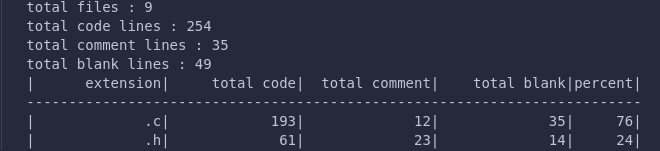
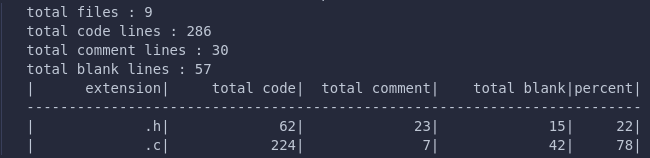
Update B2 (#5)
* Fix Issue #2 and improve readability

* Update B2_LOC_STATS.png

* Update Makefile

diff --git a/src/B2/B2_Algos.c b/src/B2/B2_Algos.c
@@ -1,14 +1,11 @@
 #include <B2_Algos.h>
-
+#define MIN(a, b) (a < b) ? a : b
 int __timestamp = 0;
 
 void B2_FCFS(Job jobQueue[], int len)
 {
     for (int i = 0; i < len; i++)
-    { // Edge case: cpu might remain idle
-        // when process 'a' ends at '10'
-        // but another process, 'b' doesnt start until '15'
-        // here, cpu will be idle from '10' to '15'
+    {
         if (__timestamp < jobQueue[i].arrivalTime)
         {
             processJob((Job){.id = 0});
@@ -21,97 +18,80 @@ void B2_FCFS(Job jobQueue[], int len)
     }
 }
 
-void B2_SRTN(Job jobQueue[], int len)
-{
-    while (1)
-    {
-        Job *job = getNextShortestJobInQueue(jobQueue, len, __timestamp);
-        if (!job)
-        { // All jobs are completed
-            break;
-        }
-
-        { // Job has arrived, process it
-            int gap = getNextBatchArrivalTime(jobQueue, len, __timestamp) - __timestamp;
-            gap = (gap < 0) || (gap > job->burstTime) ? job->burstTime : gap;
-            job->burstTime -= gap;
-            processJob(*job);
-            __timestamp += gap;
-        }
-        if (job->burstTime <= 0)
-        {
-            UpdateTableElementCT(job->id, __timestamp);
-        }
-    }
-}
-
+int completedCnt = 0;
 void B2_RR(Job jobQueue[], int len, int timeSlice)
 {
-    int i = 0, flag = 0;
-    while (flag || i < len)
-    { // If we have reached the end of the queue AND atleast 1 job is remaining,
-        // or if the job has not arrived yet, reset i to 0
-        // reset i to 0
-        if ((i >= len && flag) || jobQueue[i].arrivalTime > __timestamp)
-        {
-            i = 0;
-            flag = 0;
-        }
-
+    for (int i = 0; i < len; i++)
+    {
         if (jobQueue[i].burstTime <= 0)
-        { // If job is already completed, skip it
-            i++;
             continue;
+
+        if (__timestamp < jobQueue[i].arrivalTime) // process have not yet arrived
+        {
+            if (completedCnt == i) // all prior jobs have completed execution
+            {
+                processJob((Job){.id = 0});
+                __timestamp = jobQueue[i].arrivalTime;
+            }
+            else
+                break;
         }
 
-        { // Job has arrived, process it
-            int gap = (jobQueue[i].burstTime < timeSlice) ? jobQueue[i].burstTime : timeSlice;
-            jobQueue[i].burstTime -= gap;
-            processJob(jobQueue[i]);
-            __timestamp += gap;
-        }
+        int execTime = MIN(jobQueue[i].burstTime, timeSlice);
+
+        processJob(jobQueue[i]);
+        jobQueue[i].burstTime -= execTime;
+        __timestamp += execTime;
 
         if (jobQueue[i].burstTime <= 0)
         {
             UpdateTableElementCT(jobQueue[i].id, __timestamp);
+            completedCnt += 1;
         }
-        else
-        { // mark flag saying "atleast 1 job is remaining"
-            flag = 1;
-        }
-        i++;
     }
+
+    if (completedCnt < len)
+        B2_RR(jobQueue, len, timeSlice); // start next 'round' of execution
 }
 
 void B2_PRI(Job jobQueue[], int len)
 {
-    sortJobs(jobQueue, len, cmpPRI);
-
-    int i = 0, flag = 0;
-    while (flag || i < len)
+    Job *job = getNextHighPriorityJobInQueue(jobQueue, len, __timestamp);
+    if (job == NULL)
     {
-        if ((i >= len && flag))
-        {
-            i = 0;
-        }
-        if (jobQueue[i].arrivalTime > __timestamp)
-        { // Aleast one job exists that hasnt arrived yet, so set flag
-            flag = 1;
-            continue;
-        }
-        if (jobQueue[i].burstTime <= 0)
-        {
-            i++;
-            continue;
-        }
-
-        processJob(jobQueue[i]);
-        __timestamp += jobQueue[i].burstTime;
-        jobQueue[i].burstTime = 0;
-        UpdateTableElementCT(jobQueue[i].id, __timestamp);
-
-        i++;
+        return;
     }
+    processJob(*job);
+    __timestamp += job->burstTime;
+    job->burstTime = 0;
+
+    UpdateTableElementCT(job->id, __timestamp);
+    B2_PRI(jobQueue, len); // RECURSIVE Definition
+}
+
+void B2_SRTN(Job jobQueue[], int len)
+{
+    Job *job = getNextShortestJobInQueue(jobQueue, len, __timestamp);
+    if (job == NULL)
+    {
+        return;
+    }
+    int timeTillNextProcessArrives = getNextBatchArrivalTime(jobQueue, len, __timestamp) - __timestamp;
+    int execTime;
+    if (timeTillNextProcessArrives < 0)
+        execTime = job->burstTime;
+    else
+        execTime = MIN(job->burstTime, timeTillNextProcessArrives);
+
+    processJob(*job);
+    job->burstTime -= execTime;
+    __timestamp += execTime;
+
+    if (job->burstTime <= 0)
+    {
+        UpdateTableElementCT(job->id, __timestamp);
+    }
+    B2_SRTN(jobQueue, len); // RECURSIVE Definition
 }
 
 void printTimestamp()

diff --git a/src/B2/B2_JobQueue.c b/src/B2/B2_JobQueue.c
@@ -1,24 +1,55 @@
 #include <B2_Algos.h>
 
-int getNextBatchArrivalTime(Job jobQueue[], int rear, int timestamp)
+int getNextBatchArrivalTime(Job jobQueue[], int len, int timestamp)
 {
     int res;
-    for (res = 0; res < rear && jobQueue[res].arrivalTime <= timestamp; res++)
+    for (res = 0; res < len && jobQueue[res].arrivalTime <= timestamp; res++)
         ;
-    if (res >= rear)
+    if (res >= len)
         return -1;
 
     return jobQueue[res].arrivalTime;
 }
 
-Job *getNextShortestJobInQueue(Job jobQueue[], int rear, int timestamp)
+Job *getNextShortestJobInQueue(Job jobQueue[], int len, int timestamp)
 {
-    int shortest = 0;
-    for (int i = 0; i < rear && jobQueue[i].arrivalTime <= timestamp; i++)
+    int i, shortest = 0;
+    for (i = 0; i < len && jobQueue[i].arrivalTime <= timestamp; i++)
     {
-        if (jobQueue[i].burstTime > 0 && (jobQueue[shortest].burstTime <= 0 || cmpBT(jobQueue[i], jobQueue[shortest])))
+        if (jobQueue[i].burstTime > 0 && (
+                jobQueue[shortest].burstTime <= 0 || 
+                cmpBT(jobQueue[i], jobQueue[shortest])))
             shortest = i;
+    }
+    if (i < len && jobQueue[shortest].burstTime <= 0)
+    { // All arrived jobs have completed execution, but remaining jobs have not yet arrived
+        jobQueue[shortest].id = 0;
+        jobQueue[shortest].arrivalTime = timestamp;
+        jobQueue[shortest].burstTime = getNextBatchArrivalTime(jobQueue, len, timestamp) - timestamp;
+        return &jobQueue[shortest];
     }
 
     return (jobQueue[shortest].burstTime <= 0) ? NULL : &jobQueue[shortest];
+}
+
+Job *getNextHighPriorityJobInQueue(Job jobQueue[], int len, int timestamp)
+{
+    int i, hiPri = 0;
+    for (i = 0; i < len && jobQueue[i].arrivalTime <= timestamp; i++)
+    {
+        if (jobQueue[i].burstTime > 0 && (
+                jobQueue[hiPri].burstTime <= 0 || 
+                cmpPRI(jobQueue[i], jobQueue[hiPri])))
+            hiPri = i;
+    }
+
+    if (i < len && jobQueue[hiPri].burstTime <= 0)
+    { // All arrived jobs have completed execution, but remaining jobs have not yet arrived
+        jobQueue[hiPri].id = 0;
+        jobQueue[hiPri].arrivalTime = timestamp;
+        jobQueue[hiPri].burstTime = getNextBatchArrivalTime(jobQueue, len, timestamp) - timestamp;
+        return &jobQueue[hiPri];
+    }
+
+    return (jobQueue[hiPri].burstTime <= 0) ? NULL : &jobQueue[hiPri];
 }

diff --git a/src/B2/B2_main.c b/src/B2/B2_main.c
@@ -6,32 +6,16 @@ int main()
                                         {.id = getNextJobId(), .arrivalTime = 0, .burstTime = 90, .priority = 6},
                                         {.id = getNextJobId(), .arrivalTime = 2, .burstTime = 5, .priority = 1}},
                            .len = 3};
-    /*
-    UNHANDLED EDGECASE FOR SJF, PRI & RR: CPU IDLE TIME
-    --------------------------------------------------------------------------------------------------------------------
-    Sample TC:
-        JobQueue testCase_2 = {.jobQueue = {{.id = getNextJobId(), .arrivalTime = 0, .burstTime = 100, .priority = 4},
-                                            {.id = getNextJobId(), .arrivalTime = 0, .burstTime = 90, .priority = 6},
-                                            {.id = getNextJobId(), .arrivalTime = 192, .burstTime = 5, .priority = 1}},
-                            .len = 3};
-    --------------------------------------------------------------------------------------------------------------------
-    The first 2 processes complete their execution by timestamp 190. 3rd process arrives at 192.
-    CPU should remain idle from 190-192.
-    FCFS can handle this.
-    SJF simply exits at 190 and doesnt bither waiting untill 192
-    1 solution is to simply check if there exists any process that is pending whenever we reach end of array.
-    But this changes algo from O(k*n) to O(l*n^2 + k*n) ... l and k are constants
-    */
 
     initTable(testCase_1.jobQueue, testCase_1.len);
+
+    B2_RunAlgos(testCase_1, NP_PRI);
 
     B2_RunAlgos(testCase_1, NP_FCFS);
 
     B2_RunAlgos(testCase_1, P_SRTN);
 
     B2_RunAlgos(testCase_1, P_RR);
-
-    B2_RunAlgos(testCase_1, NP_PRI);
 
     return 0;
 }

diff --git a/include/B2/B2_JobQueue.h b/include/B2/B2_JobQueue.h
@@ -12,10 +12,12 @@ typedef struct JobQueue
  * arrival time of next batch of jobs(if any)
  * else returns -1
  **/
-int getNextBatchArrivalTime(Job jobQueue[], int rear, int timestamp);
+int getNextBatchArrivalTime(Job jobQueue[], int len, int timestamp);
 
 /*
  * returns shortest remaining job from queue.
  * if all jobs have BT of `0`, returns NULL
  **/
-Job *getNextShortestJobInQueue(Job jobQueue[], int rear, int timestamp);
+Job *getNextShortestJobInQueue(Job jobQueue[], int len, int timestamp);
+
+Job *getNextHighPriorityJobInQueue(Job jobQueue[], int len, int timestamp);

diff --git a/src/B2/B2_Jobs.c b/src/B2/B2_Jobs.c
@@ -10,5 +10,12 @@ int getNextJobId()
 void processJob(Job job)
 {
     printTimestamp();
-    printf("\033[41m P%d ", job.id);
+    if (job.id == 0)
+    {
+        printf("\033[41m IDLE ");
+    }
+    else
+    {
+        printf("\033[41m P%d ", job.id);
+    }
 }

diff --git a/README.md b/README.md
@@ -1,5 +1,4 @@
 # LP1
-
 Lab practice Codes containing SP, OS and HCI.
 Code is written in C, organized across multiple files.
 
